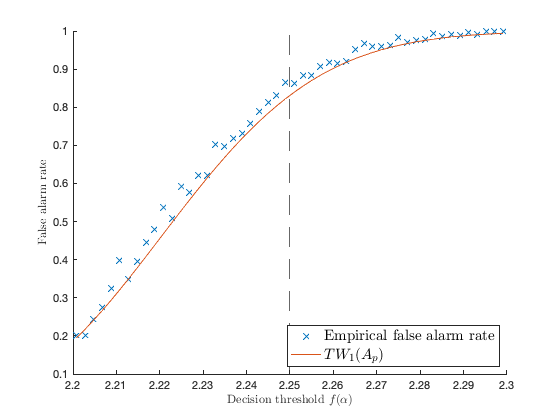
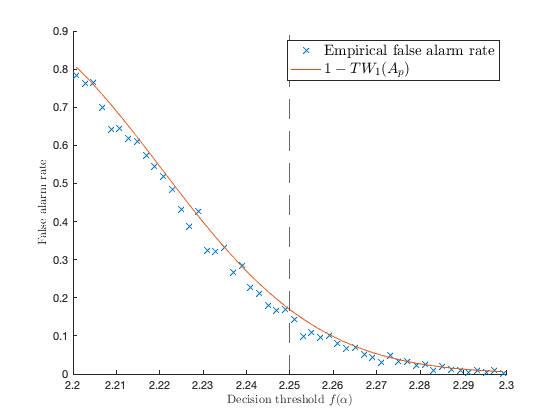
up GLRT

diff --git a/3.1/html/GLRT.html b/3.1/html/GLRT.html
@@ -6,7 +6,7 @@
    <!--
 This HTML was auto-generated from MATLAB code.
 To make changes, update the MATLAB code and republish this document.
-      --><title>Section 3.1.1: GLRT asymptotics</title><meta name="generator" content="MATLAB 9.8"><link rel="schema.DC" href="http://purl.org/dc/elements/1.1/"><meta name="DC.date" content="2021-06-19"><meta name="DC.source" content="GLRT.m"><style type="text/css">
+      --><title>Section 3.1.1: GLRT asymptotics</title><meta name="generator" content="MATLAB 9.8"><link rel="schema.DC" href="http://purl.org/dc/elements/1.1/"><meta name="DC.date" content="2023-03-14"><meta name="DC.source" content="GLRT.m"><style type="text/css">
 html,body,div,span,applet,object,iframe,h1,h2,h3,h4,h5,h6,p,blockquote,pre,a,abbr,acronym,address,big,cite,code,del,dfn,em,font,img,ins,kbd,q,s,samp,small,strike,strong,sub,sup,tt,var,b,u,i,center,dl,dt,dd,ol,ul,li,fieldset,form,label,legend,table,caption,tbody,tfoot,thead,tr,th,td{margin:0;padding:0;border:0;outline:0;font-size:100%;vertical-align:baseline;background:transparent}body{line-height:1}ol,ul{list-style:none}blockquote,q{quotes:none}blockquote:before,blockquote:after,q:before,q:after{content:'';content:none}:focus{outine:0}ins{text-decoration:none}del{text-decoration:line-through}table{border-collapse:collapse;border-spacing:0}
 
 html { min-height:100%; margin-bottom:1px; }
@@ -92,21 +92,21 @@ T = @(X) norm(X*(X')/n)/( trace(X*(X')/n)/p);
     <span class="keyword">for</span> average_loop = 1:nb_average_loop
         <span class="comment">%s = randn(n,1); % random signal</span>
         X = sqrt(sigma2)*randn(p,n);
-        tmp_error = tmp_error + (T(X)&lt; f_alpha);
+        tmp_error = tmp_error + (T(X)&gt; f_alpha);
     <span class="keyword">end</span>
     emp_type_1_error(i) = tmp_error/nb_average_loop;
-    [~,theo_type_1_error(i)] = tracy_widom_appx((f_alpha - (1+sqrt(c))^2)*(1+sqrt(c))^(-4/3)*c^(1/6)*n^(2/3), 1);
+    [~,theo_type_1_error(i)] = tracy_widom_approx((f_alpha - (1+sqrt(c))^2)*(1+sqrt(c))^(-4/3)*c^(1/6)*n^(2/3), 1);
 <span class="keyword">end</span>
 
 figure
 hold <span class="string">on</span>
 plot(f_alpha_loop,emp_type_1_error,<span class="string">'x'</span>)
-plot(f_alpha_loop,theo_type_1_error)
+plot(f_alpha_loop,1-theo_type_1_error)
 xline((1+sqrt(c))^2,<span class="string">'--'</span>);
 xlabel(<span class="string">'Decision threshold $f(\alpha)$'</span>, <span class="string">'Interpreter'</span>,<span class="string">'latex'</span>)
 ylabel(<span class="string">'False alarm rate'</span>, <span class="string">'Interpreter'</span>,<span class="string">'latex'</span>)
-legend(<span class="string">'Empirical false alarm rate'</span>, <span class="string">'$TW_1 (A_p)$'</span>, <span class="string">'Location'</span>,<span class="string">'southeast'</span>, <span class="string">'Interpreter'</span>,<span class="string">'latex'</span>, <span class="string">'FontSize'</span>, 15)
-</pre><h2 id="2">FUNCTION</h2><pre class="codeinput"><span class="keyword">function</span> [pdftwappx, cdftwappx] = tracy_widom_appx(x, i)
+legend(<span class="string">'Empirical false alarm rate'</span>, <span class="string">'$1- TW_1 (A_p)$'</span>, <span class="string">'Location'</span>,<span class="string">'northeast'</span>, <span class="string">'Interpreter'</span>,<span class="string">'latex'</span>, <span class="string">'FontSize'</span>, 15)
+</pre><h2 id="2">FUNCTION</h2><pre class="codeinput"><span class="keyword">function</span> [pdftwappx, cdftwappx] = tracy_widom_approx(x, i)
 <span class="comment">%</span>
 <span class="comment">% [pdftwappx, cdftwappx]=tracywidom_appx(x, i)</span>
 <span class="comment">%</span>
@@ -175,23 +175,24 @@ for i = 1:length(f_alpha_loop)
     for average_loop = 1:nb_average_loop
         %s = randn(n,1); % random signal
         X = sqrt(sigma2)*randn(p,n);
-        tmp_error = tmp_error + (T(X)< f_alpha);
+        tmp_error = tmp_error + (T(X)> f_alpha);
     end
     emp_type_1_error(i) = tmp_error/nb_average_loop;
-    [~,theo_type_1_error(i)] = tracy_widom_appx((f_alpha - (1+sqrt(c))^2)*(1+sqrt(c))^(-4/3)*c^(1/6)*n^(2/3), 1);
+    [~,theo_type_1_error(i)] = tracy_widom_approx((f_alpha - (1+sqrt(c))^2)*(1+sqrt(c))^(-4/3)*c^(1/6)*n^(2/3), 1);
 end
 
 figure
 hold on
 plot(f_alpha_loop,emp_type_1_error,'x')
-plot(f_alpha_loop,theo_type_1_error)
+plot(f_alpha_loop,1-theo_type_1_error)
 xline((1+sqrt(c))^2,'REPLACE_WITH_DASH_DASH');
 xlabel('Decision threshold $f(\alpha)$', 'Interpreter','latex')
 ylabel('False alarm rate', 'Interpreter','latex')
-legend('Empirical false alarm rate', '$TW_1 (A_p)$', 'Location','southeast', 'Interpreter','latex', 'FontSize', 15)
+legend('Empirical false alarm rate', '$1- TW_1 (A_p)$', 'Location','northeast', 'Interpreter','latex', 'FontSize', 15)
+
 
 %% FUNCTION
-function [pdftwappx, cdftwappx] = tracy_widom_appx(x, i)
+function [pdftwappx, cdftwappx] = tracy_widom_approx(x, i)
 %
 % [pdftwappx, cdftwappx]=tracywidom_appx(x, i)
 %

diff --git a/3.1/GLRT.m b/3.1/GLRT.m
@@ -27,23 +27,24 @@ for i = 1:length(f_alpha_loop)
     for average_loop = 1:nb_average_loop
         %s = randn(n,1); % random signal
         X = sqrt(sigma2)*randn(p,n);
-        tmp_error = tmp_error + (T(X)< f_alpha);
+        tmp_error = tmp_error + (T(X)> f_alpha);
     end
     emp_type_1_error(i) = tmp_error/nb_average_loop;
-    [~,theo_type_1_error(i)] = tracy_widom_appx((f_alpha - (1+sqrt(c))^2)*(1+sqrt(c))^(-4/3)*c^(1/6)*n^(2/3), 1);
+    [~,theo_type_1_error(i)] = tracy_widom_approx((f_alpha - (1+sqrt(c))^2)*(1+sqrt(c))^(-4/3)*c^(1/6)*n^(2/3), 1);
 end
 
 figure
 hold on
 plot(f_alpha_loop,emp_type_1_error,'x')
-plot(f_alpha_loop,theo_type_1_error)
+plot(f_alpha_loop,1-theo_type_1_error)
 xline((1+sqrt(c))^2,'--');
 xlabel('Decision threshold $f(\alpha)$', 'Interpreter','latex')
 ylabel('False alarm rate', 'Interpreter','latex')
-legend('Empirical false alarm rate', '$TW_1 (A_p)$', 'Location','southeast', 'Interpreter','latex', 'FontSize', 15)
+legend('Empirical false alarm rate', '$1- TW_1 (A_p)$', 'Location','northeast', 'Interpreter','latex', 'FontSize', 15)
+
 
 %% FUNCTION
-function [pdftwappx, cdftwappx] = tracy_widom_appx(x, i)
+function [pdftwappx, cdftwappx] = tracy_widom_approx(x, i)
 %
 % [pdftwappx, cdftwappx]=tracywidom_appx(x, i)
 %
